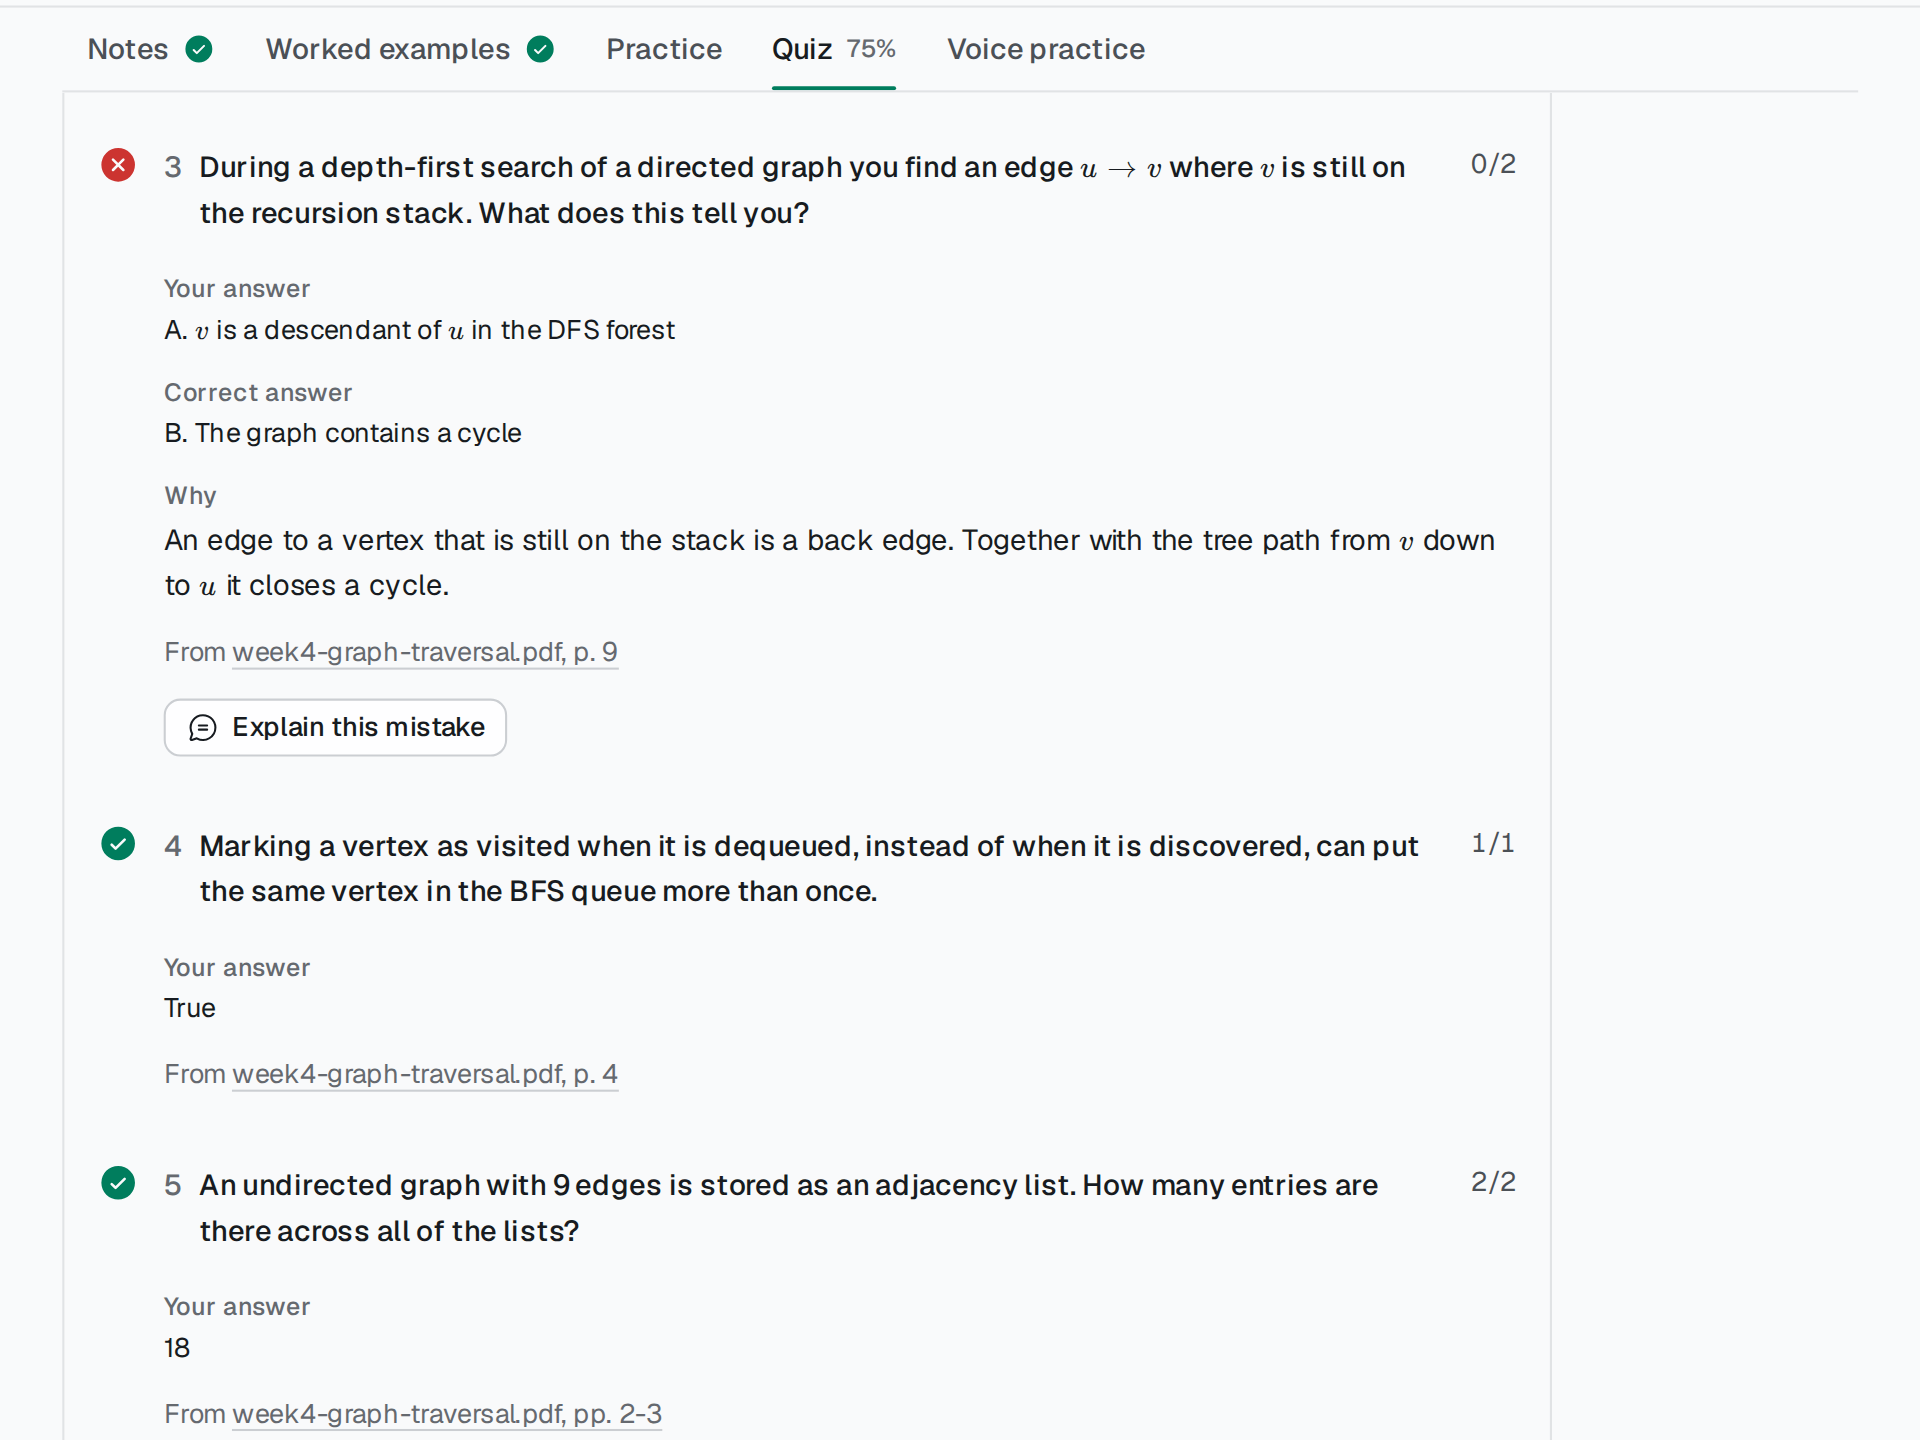
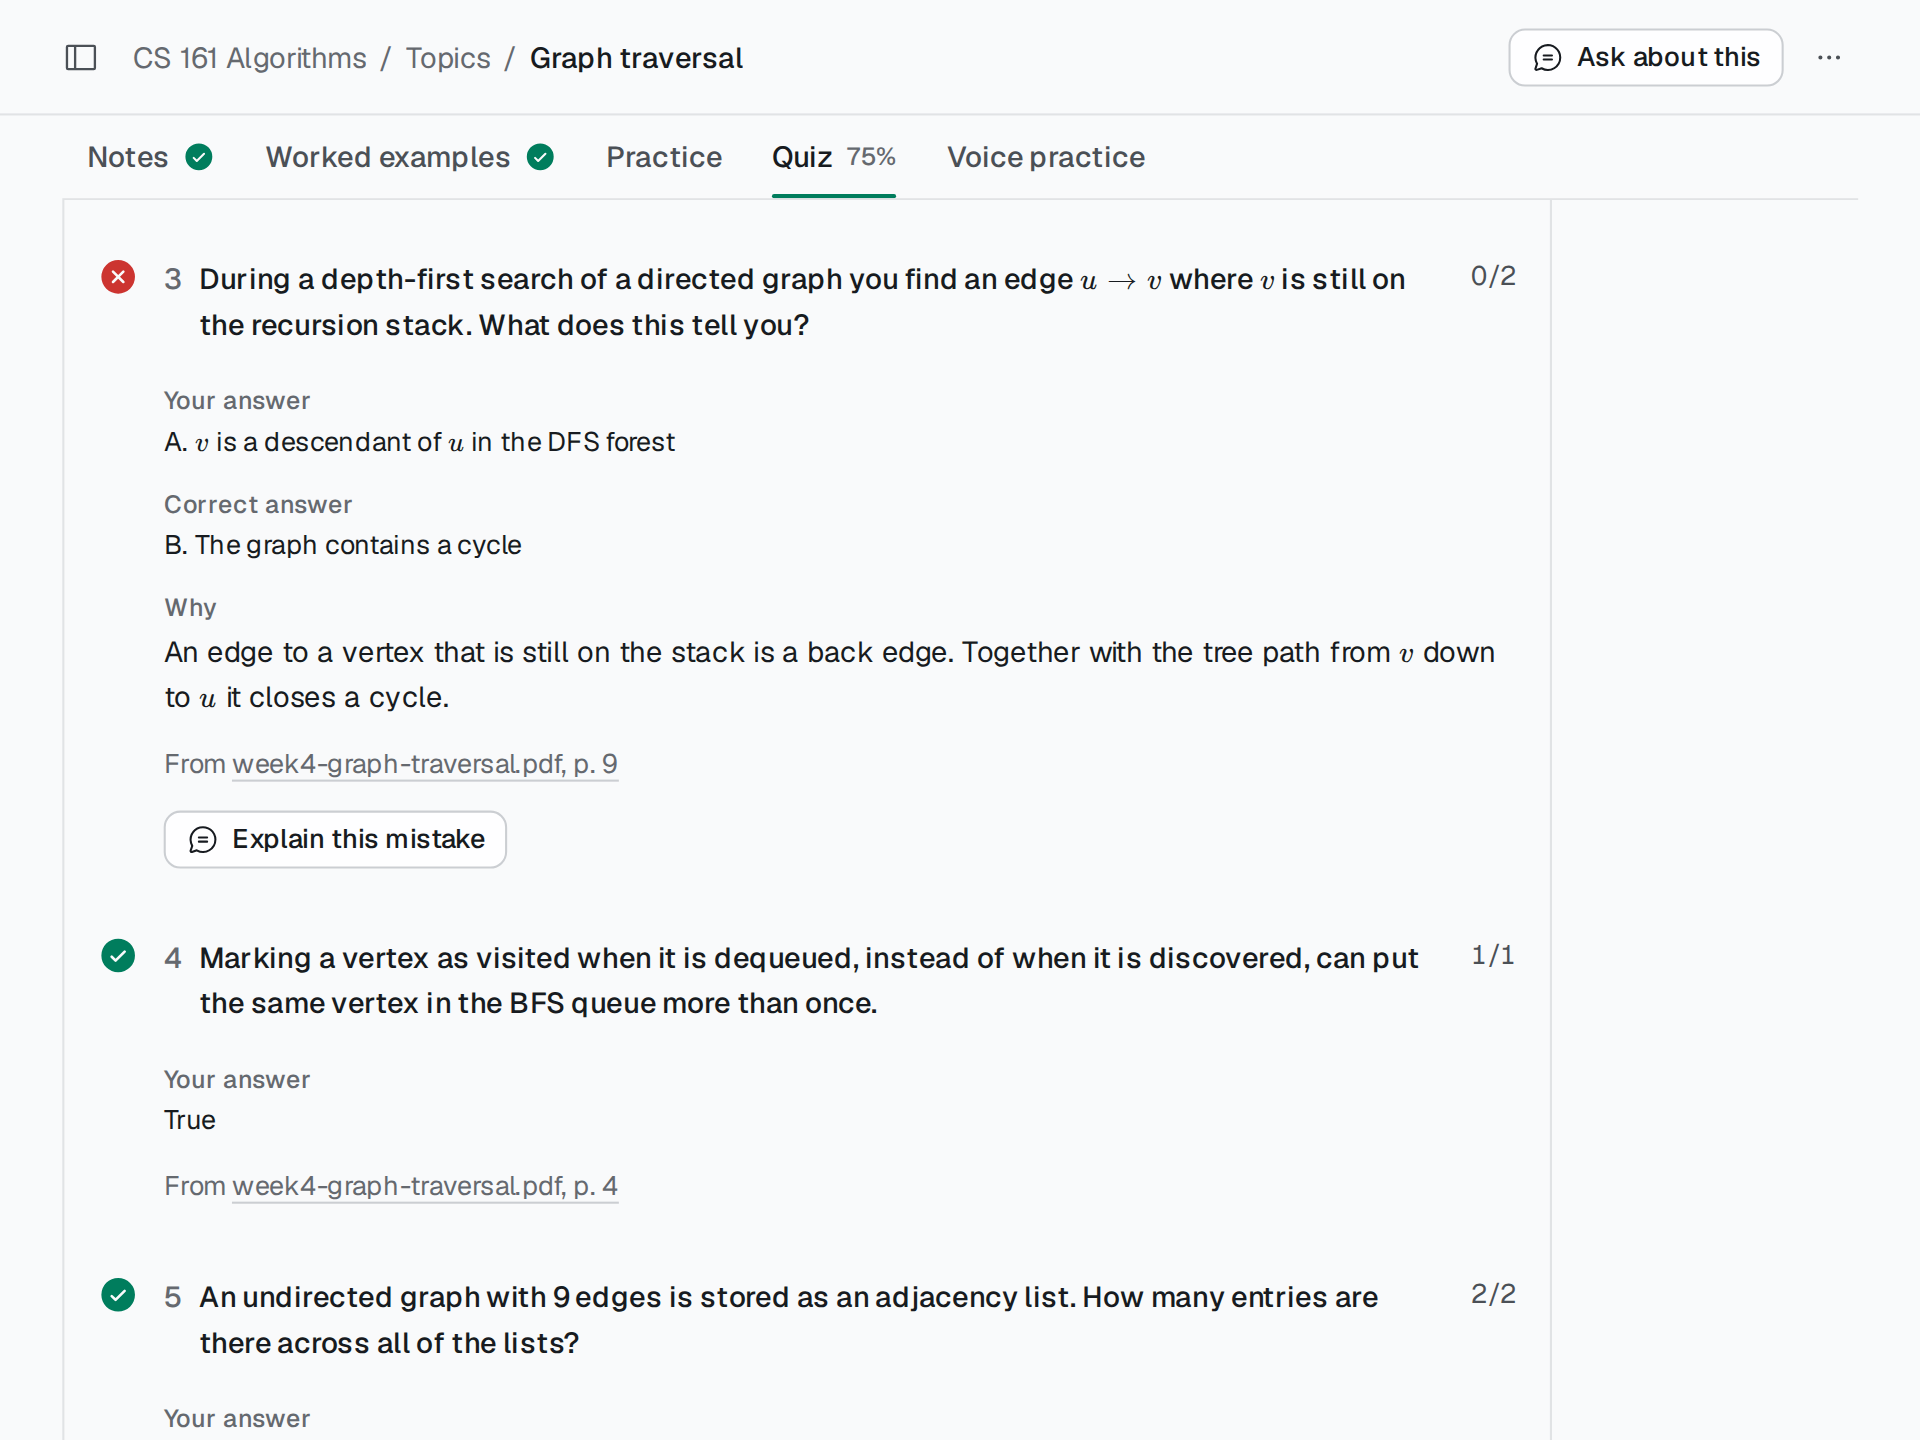
Keep text lines clear of the bottom edge of the quiz and topic crops

diff --git a/frontend/scripts/capture-screens.ts b/frontend/scripts/capture-screens.ts
@@ -105,12 +105,13 @@ type Shot = {
  */
 const WIDTHS = { desktop: [960, 1500, 1920], phone: [390, 780, 1170] }
 /**
- * The largest a lossless file may be, in bits per pixel, before it is written near-lossless instead. UI
- * screenshots are mostly flat colour and come out at 0.5-1.5 bits per pixel; one far above that is mostly
- * photo or noise, where near-lossless (lossless coding of a lightly quantised image, still no chroma
- * subsampling) costs nothing visible. Lossy WebP, which halves the colour resolution, is never used.
+ * The largest a lossless file may be, in bits per pixel, before it is written near-lossless instead. Drawn at
+ * their own density these screenshots come out at 0.1-0.8 bits per pixel (the densest is a 390px phone page at
+ * 1x); 1.5 is about twice that, so only a screen that is mostly photo or noise goes over, where near-lossless
+ * (lossless coding of a lightly quantised image, still no chroma subsampling) costs nothing visible. Lossy WebP,
+ * which halves the colour resolution, is never used.
  */
-const BITS_PER_PIXEL_BUDGET = 2.5
+const BITS_PER_PIXEL_BUDGET = 1.5
 
 const SIDEBAR = 248
 /**
@@ -188,59 +189,68 @@ async function assertToday(page: Page) {
 }
 
 /**
- * Nudges the page's scroller so no line of text is cut by the top of what scrolls (under the top bar, a sticky
- * tab row, or the top of a scrolling panel): cut lines go up under the bar, or, at the end of the page, down
- * below it. One direction throughout, so it cannot swing back and forth.
+ * Nudges the page's scroller so no line of text is cut by an edge of the picture: by default the top of what
+ * scrolls (under the top bar, a sticky tab row, or the top of a scrolling panel), or the line `at` (CSS px from
+ * the top of the viewport, the bottom of a crop). The cut line goes past the edge, out of the picture: up under
+ * a top edge, down below a bottom one (the other way at the end or the start of the page). Once a direction is
+ * taken it is kept, so it cannot swing back and forth.
  */
-async function clearTopEdge(page: Page) {
+async function clearEdge(page: Page, at?: number) {
   let direction: 'up' | 'down' | null = null
   let last = ''
   for (let attempt = 0; attempt < 8; attempt++) {
-    const moved: { way: 'up' | 'down'; text: string } | null = await page.evaluate((way: 'up' | 'down' | null) => {
-      const scrollers = Array.from(document.querySelectorAll<HTMLElement>('*')).filter(
-        (node) => node.scrollHeight > node.clientHeight + 40 && /(auto|scroll)/.test(getComputedStyle(node).overflowY)
-      )
-      const main = scrollers.sort((a, b) => b.scrollHeight - a.scrollHeight)[0]
-      let edge = main ? Math.max(0, main.getBoundingClientRect().top) : 0
-      for (const element of Array.from(document.querySelectorAll<HTMLElement>('body *'))) {
-        if (!['sticky', 'fixed'].includes(getComputedStyle(element).position)) continue
-        const rect = element.getBoundingClientRect()
-        if (rect.height > 0 && rect.height < 200 && rect.top <= edge + 1 && rect.bottom > edge) edge = rect.bottom
-      }
-      const walker = document.createTreeWalker(main ?? document.body, NodeFilter.SHOW_TEXT)
-      let cut: { rect: DOMRect; text: string } | null = null
-      while (!cut && walker.nextNode()) {
-        const node = walker.currentNode
-        const parent = node.parentElement
-        // Text that scrolls and can be seen: not hidden, not in a pinned bar, not visually hidden (sr-only is 1px).
-        // (checkVisibility is false inside a closed <details>, whose text still has boxes.)
-        if (!node.textContent?.trim() || !parent || !parent.checkVisibility({ opacityProperty: true, visibilityProperty: true })) continue
-        let ancestor: Element | null = parent
-        while (ancestor && ancestor !== main && !['sticky', 'fixed'].includes(getComputedStyle(ancestor).position)) ancestor = ancestor.parentElement
-        if (ancestor && ancestor !== main) continue
-        const range = document.createRange()
-        range.selectNodeContents(node)
-        const rect = Array.from(range.getClientRects()).find((box) => box.height > 4 && box.width > 2 && box.top < edge - 0.5 && box.bottom > edge + 0.5)
-        if (rect) cut = { rect, text: `${node.textContent.trim().slice(0, 40)} (${Math.round(rect.top)}-${Math.round(rect.bottom)} across ${Math.round(edge)}, in ${main ? main.tagName + '.' + main.className.slice(0, 40) : 'the page'})` }
-      }
-      if (!cut) return null
-      const scroller = main ?? document.scrollingElement!
-      const before = scroller.scrollTop
-      if (way !== 'down') {
-        scroller.scrollTop += Math.ceil(cut.rect.bottom - edge) + 1
-        // At the end of the page it cannot go up (scrollTop may still move a fraction of a pixel).
-        if (scroller.scrollTop - before >= 1) return { way: 'up' as const, text: cut.text }
-        scroller.scrollTop = before
-      }
-      scroller.scrollTop -= Math.ceil(edge - cut.rect.top) + 1
-      return { way: 'down' as const, text: cut.text }
-    }, direction)
+    const moved: { way: 'up' | 'down'; text: string } | null = await page.evaluate(
+      ({ way, at }: { way: 'up' | 'down' | null; at: number | null }) => {
+        const scrollers = Array.from(document.querySelectorAll<HTMLElement>('*')).filter(
+          (node) => node.scrollHeight > node.clientHeight + 40 && /(auto|scroll)/.test(getComputedStyle(node).overflowY)
+        )
+        const main = scrollers.sort((a, b) => b.scrollHeight - a.scrollHeight)[0]
+        let edge = at ?? (main ? Math.max(0, main.getBoundingClientRect().top) : 0)
+        if (at === null) {
+          for (const element of Array.from(document.querySelectorAll<HTMLElement>('body *'))) {
+            if (!['sticky', 'fixed'].includes(getComputedStyle(element).position)) continue
+            const rect = element.getBoundingClientRect()
+            if (rect.height > 0 && rect.height < 200 && rect.top <= edge + 1 && rect.bottom > edge) edge = rect.bottom
+          }
+        }
+        const walker = document.createTreeWalker(main ?? document.body, NodeFilter.SHOW_TEXT)
+        let cut: { rect: DOMRect; text: string } | null = null
+        while (!cut && walker.nextNode()) {
+          const node = walker.currentNode
+          const parent = node.parentElement
+          // Text that scrolls and can be seen: not hidden (checkVisibility is false inside a closed <details>,
+          // whose text still has boxes), not in a pinned bar, not visually hidden (sr-only is 1px).
+          if (!node.textContent?.trim() || !parent || !parent.checkVisibility({ opacityProperty: true, visibilityProperty: true })) continue
+          let ancestor: Element | null = parent
+          while (ancestor && ancestor !== main && !['sticky', 'fixed'].includes(getComputedStyle(ancestor).position)) ancestor = ancestor.parentElement
+          if (ancestor && ancestor !== main) continue
+          const range = document.createRange()
+          range.selectNodeContents(node)
+          const rect = Array.from(range.getClientRects()).find((box) => box.height > 4 && box.width > 2 && box.top < edge - 0.5 && box.bottom > edge + 0.5)
+          if (rect) cut = { rect, text: `${node.textContent.trim().slice(0, 40)} (${Math.round(rect.top)}-${Math.round(rect.bottom)} across ${Math.round(edge)})` }
+        }
+        if (!cut) return null
+        const scroller = main ?? document.scrollingElement!
+        // Up moves the content up (scrollTop grows) until the line is above the edge; down, until it is below.
+        const deltas = { up: Math.ceil(cut.rect.bottom - edge) + 1, down: -(Math.ceil(edge - cut.rect.top) + 1) }
+        const order: ('up' | 'down')[] = way ? [way] : at === null ? ['up', 'down'] : ['down', 'up']
+        for (const option of order) {
+          const before = scroller.scrollTop
+          scroller.scrollTop += deltas[option]
+          // At the end (or start) of the page it cannot move, though scrollTop may change by a fraction of a pixel.
+          if (Math.abs(scroller.scrollTop - before) >= 1) return { way: option, text: cut.text }
+          scroller.scrollTop = before
+        }
+        return { way: order[0], text: `${cut.text}, and the page cannot scroll` }
+      },
+      { way: direction, at: at ?? null }
+    )
     if (!moved) return
     direction = moved.way
     last = moved.text
     await page.waitForTimeout(150)
   }
-  throw new Error(`"${last}" is still cut at the top of the page`)
+  throw new Error(`"${last}" is still cut at the edge of the picture`)
 }
 
 async function box(page: Page, locator: import('@playwright/test').Locator, what: string) {
@@ -344,6 +354,7 @@ const SHOTS: Shot[] = [
     name: 'topics-edit',
     viewport: { width: 1180, height: 760 },
     url: (ids) => `${course(ids)}/topics?edit=1`,
+    prepare: (page) => clearEdge(page, MAIN.width / FRAME),
     crop: async (page) => fitRatio(page, [MAIN.left, 0, MAIN.width, 600], FRAME),
   },
   // The part of the notes with code, the outline and the sources: from "How it works" to the end of the
@@ -401,8 +412,10 @@ const SHOTS: Shot[] = [
       const missed = page.getByText('During a depth-first search')
       await missed.waitFor()
       await scrollTo(missed, 124)
+      await clearEdge(page, MAIN.width / FRAME)
     },
-    crop: async (page) => fitRatio(page, [MAIN.left, 100, MAIN.width, 600], FRAME),
+    // From the top of the page, with the top bar and the topic tabs, to the bottom of the 4:3 frame.
+    crop: async (page) => fitRatio(page, [MAIN.left, 0, MAIN.width, 600], FRAME),
   },
   // Only in the README.
   {
@@ -616,7 +629,7 @@ async function load(session: Session, shot: Shot, theme: Theme, scale: number) {
   await settle(page)
   await page.addStyleTag({ content: STILL_CSS })
   if (shot.prepare) await shot.prepare(page, session.ids)
-  if (phone) await clearTopEdge(page)
+  if (phone) await clearEdge(page)
   await page.waitForTimeout(300)
   let crop: Crop | undefined = typeof shot.crop === 'function' ? await shot.crop(page) : shot.crop
   if (!crop && phone) {
